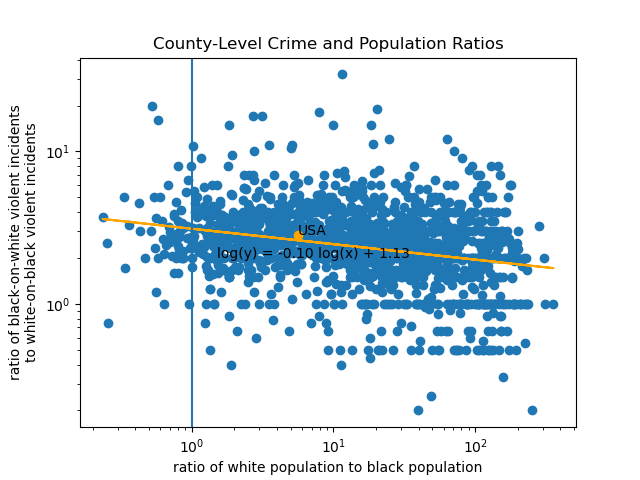
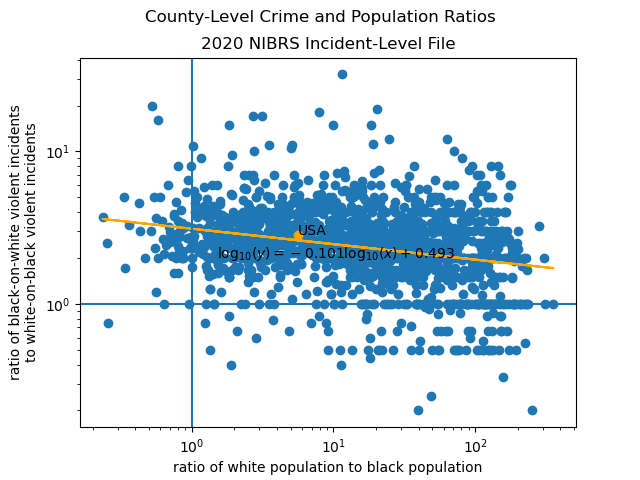
modified graph

diff --git a/_posts/2022-11-20-contra-jared-taylor.html b/_posts/2022-11-20-contra-jared-taylor.html
@@ -50,7 +50,7 @@ At first it seems that blue-on-green violence is in parity with green-on-blue vi
 
 <p style="text-align:center"><img src=/assets/img/black_white_county_ratios.png></p>
 
-<p>(In this paragraph, "white" means white (hispanic+non-hispanic)). According to this regression, the expected ratio of black-on-white to white-on-black crimes is exp(1.13) = 3.11 when the black population is equal to the white population. But just taking the total of the interracial crimes in the USA gives a ratio of 2.81. This underestimates the expected ratio of black-on-white to white-on-black crimes at equal population by a factor of 3.11/2.81 = 1.11.</p>
+<p>(In this paragraph, "white" means white (hispanic+non-hispanic)). According to this regression, the expected ratio of black-on-white to white-on-black crimes is 10^0.493 = 3.11 when the black population is equal to the white population. But just taking the total of the interracial crimes in the USA gives a ratio of 2.81. This underestimates the expected ratio of black-on-white to white-on-black crimes at equal population by a factor of 3.11/2.81 = 1.11.</p>
 
 <p>(In this paragraph, "white" just means non-hispanic white). I will presume that the total of the interracial crimes in the USA from the NCVS underestimates the expected ratio of black-on-white to white-on-black crimes at equal population by the same factor of 1.11. The ratio of black-on-white crimes to white-on-black crimes from the 2021 NCVS is 6.87. The expected ratio of black-on-white to white-on-black crimes is then 1.11*6.87 = 7.63, if the white population were equal to the black population. <b>Therefore, if the black population were equal to the white population in the United States, then it is expected that blacks would be 7.63 times as likely to attack whites as the reverse.</b></p>
 <h3>Notes</h3>
